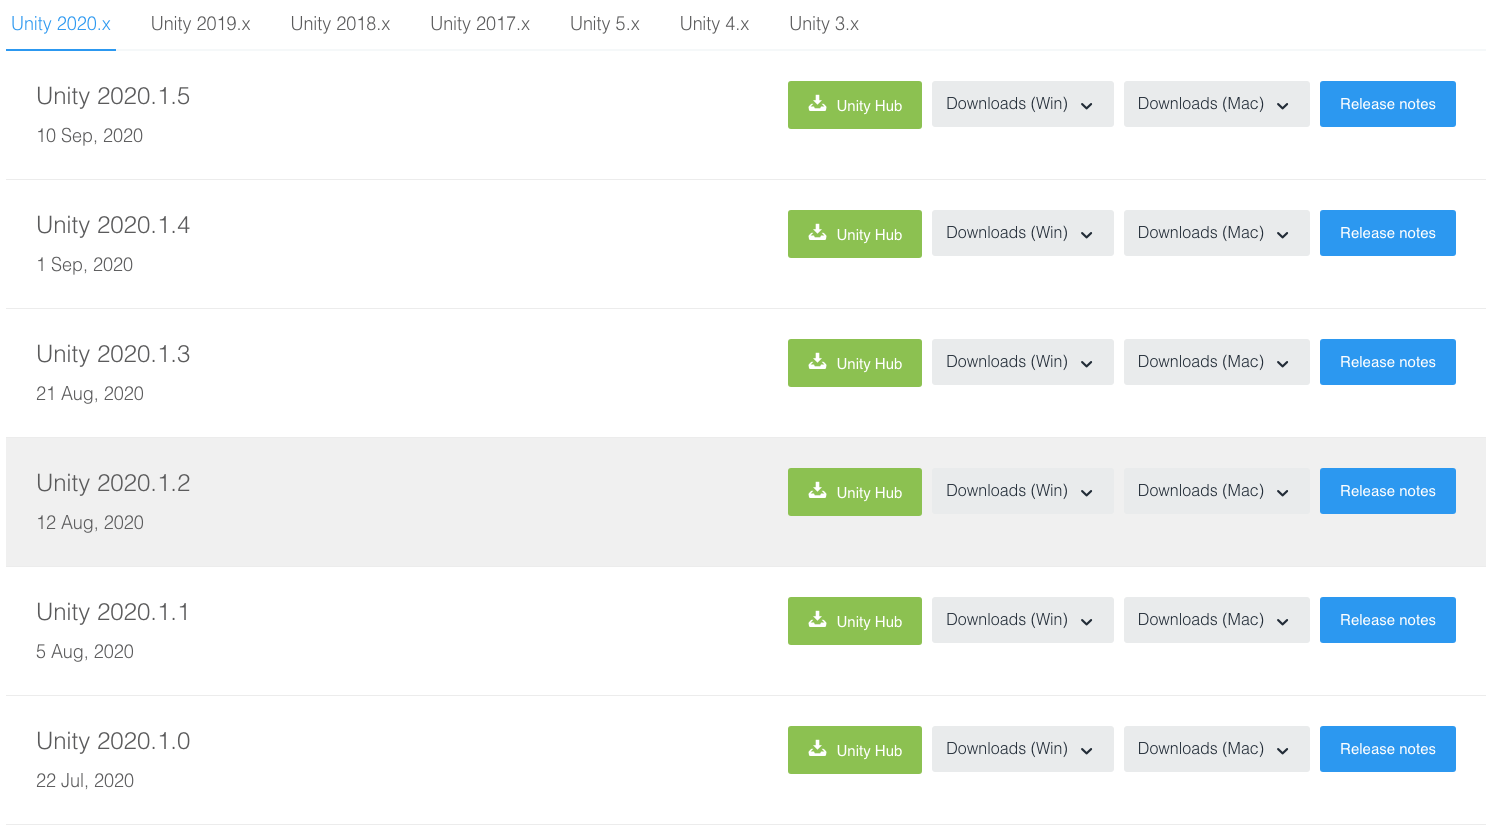
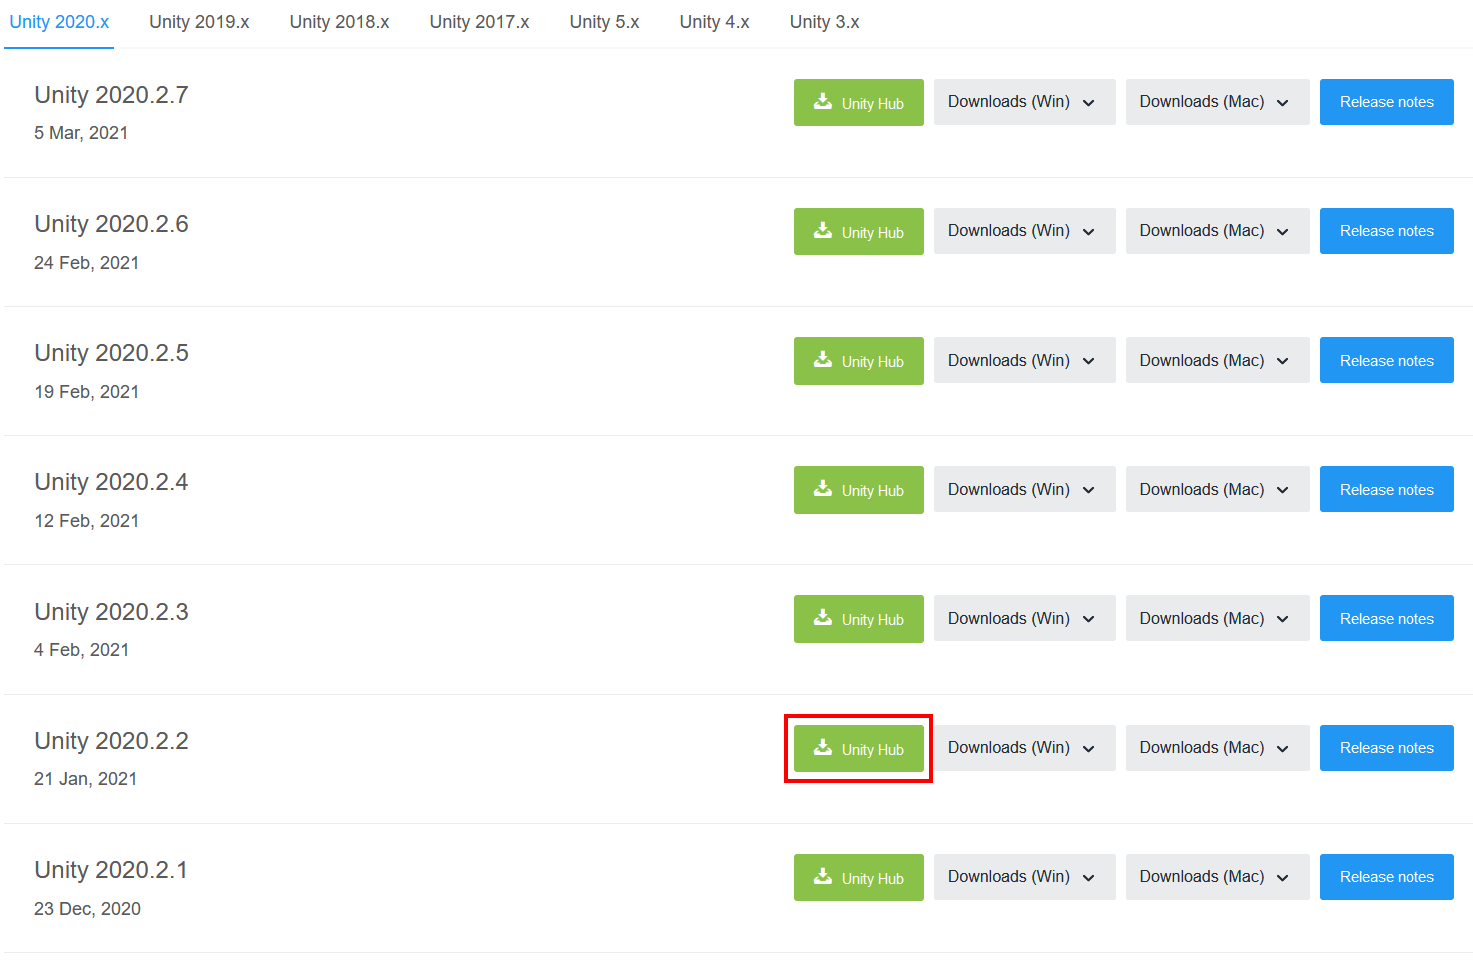
Update README.md

diff --git a/README.md b/README.md
@@ -1,24 +1,30 @@
 # Structural Geology Query Toolkit
 
-This guide assumes you are a complete newcomer to using the Untiy game engine.
+## Overview
+
+[TODO insert description of this project]
+
+This guide assumes you are a newcomer to the Unity game engine. 
 
 
 
 ## Installing Unity
 
-### Install Unity Hub
+### Download Unity Hub
 
-Unity Hub is a tool where you can manage all your Unity projects and Unity editors.
+Unity Hub is an application where you can manage your Unity projects and Unity editors.
 
 https://store.unity.com/download?ref=personal
+
+You will also need to create an account and obtain a free personal license.
 
 
 
 ### Adding a new Unity version
 
-After installing install Unity Hub, you will need to download an actual Unity editor to go with it. This project was developed using Unity **2020.1.2**, so we recommend using the same version. Other versions may work as well.
+After installing install Unity Hub, you will need to download an actual Unity editor to go with it. This project was last updated using Unity **2020.2.2**, and we strongly recommend using the same version. 
 
-Go to [Unity Archive](https://unity3d.com/get-unity/download/archive) and select the Unity Hub option for 2020.1.2.
+Go to the [Unity Archive Site](https://unity3d.com/get-unity/download/archive) and select the "Unity Hub" option.
 
 ![Download Unity](Documentation/DownloadUnity.png)
 
@@ -28,43 +34,41 @@ In Unity Hub, you will see this popup. Check the "WebGL Build Support" to be abl
 
 ![Add WebGL](Documentation/AddWebGL.png)
 
-## Creating a new project through Unity Hub
-
-![New Project 1](Documentation/NewProject1.gif)
 
 
+## Downloading the Structural Query Toolkit Project
 
-Then, create a new project with the Universal Render Pipeline.
+If you are unfamiliar with Git, we recommend you download and extract the ZIP file of the project, shown below:
 
-![New Project 2](Documentation/NewProject2.gif)
+![DownloadingProjecting](Documentation/DownloadingProjecting.png)
 
+## Importing the project
 
+Once you have extracted the zip file, open Unity Hub to open the project. 
 
-## Downloading the Structural Query Toolkit package
-
-Head to our releases section and download the latest package. This package will be imported into your new  Unity project.
-
-This is the only file you need to download.
+![Adding Project](Documentation/Adding Project.png)
 
 
 
-## Importing the Structural Query Toolkit Package
+Simply click the on the project folder and click "open."
 
-After downloding the package, import it into your project.
-
-![Import Package](Documentation/ImportPackage.gif)
+![Adding Project](Documentation/Adding Project.gif)
 
 
+
+**Note:** importing this project may take several minutes. Once it has finished and you see the Unity editor, proceed below.
 
 ## Setting up the scene
 
-### Open the scene
+### Open the field scene
 
 After importing the package, open the scene called "Field Scene" inside "Assets/Scenes"
 
 ![Open Field Scene](Documentation/OpenFieldScene.gif)
 
-This scene is where you will insert your own model to be used ingame.
+This scene is where you will insert your own model(s) to be used in-game.
+
+By default, we've included a sample scene that you play around with! Feel free to either keep or swap out parts of this sample with your own objects. Instructions are detailed below. 
 
 [TODO picture of scene]
 
@@ -72,45 +76,97 @@ This scene is where you will insert your own model to be used ingame.
 
 ### Setting the aspect ratio for your editor play mode
 
-The UI may look weird when the game screen is not in 16:9 or 16:10. Note that this does not affect the final build of the project, where its default non-fullscreen resolution is defined elsewhere. This simply gives you a better preview of the ingame look.
+The in-game user interface may look weird when the game screen is not in 16:9 or 16:10 aspect ratio. 
+
+**Note:** this does not affect the final build of the project, where its default resolution is defined elsewhere. This simply gives you a better preview of the in-game look in the Unity editor. In particular, the in-game UI will match what the final build will look like.
 
 ![Change aspect ratio](Documentation/ChangeAspectRatio.gif)
 
 
 
-### Adding the "Stereonet" layer
+### Entering play mode
 
-Since Unity packages cannot import layers, you must manually assign the layer "Stereonet" to "Stereonets Controller" gameobject and its children. Doing this will allow the 2D stereoent in the project to work.
+To enter play mode, press the play button.
 
-First, Select any gameobject under the "hierarchy" tab and open the layers window.
+**Important:** Do not make changes to your scene during play mode! All changes you make to scene will revert back when you exit play mode. Always make sure to exit play mode.
 
-![Open Layer Window](Documentation/OpenLayerWindow.gif)
+![Play_Icons](Documentation/Play_Icons.png)
 
-Then, add a new layer called "Stereonet"
+### 
 
-![Stereonet layer](Documentation/StereonetLayer.png)
-
-Lastly, select the "Stereonets Controller" gameobject in the hierarchy tab, and in the inspector, assign the Stereonet layer.
-
-![Select Stereonets Controller](Documentation/SelectStereonetsController.png)
-
-![Assign Layer](Documentation/AssignLayer.gif)
-
-Select "Yes, change children"
-
-![Yes change children](Documentation/YesChangeChildren.png)
-
-
-
-
-
-### Switching the example model with your model
+### Adding your model
 
 [TODO]
 
 
 
-### Moving the player gameobject to your desired position
+Be sure to 
+
+
+
+### Creating your model's material
+
+First, you'll need to import your models' textures to the project. Simply drag it in your project window.
+
+[TODO]
+
+In Unity, select your texture and adjust its import settings. For reference, here is our import setting for our Whaleback texture. The most important setting is **Max Size**, where you should set it to your image's resolution.
+
+![Texture_Import_Settings](Documentation/Texture_Import_Settings.png)
+
+
+
+With your texture, you will need to create a **material** file. 
+
+[TODO]
+
+
+
+### (Optional) Setting your model's altitude
+
+**Important:** this step is only relevant if you have visible GPS markers (i.e. specific spots where you know the elevation of) in your model.
+
+Do you want to see the elevation of your measurements? If so, you will place one or more altitude marker objects in your scene.
+
+**Note:** The Unity game engine uses the metric system, where one unit is one meter, so scale and translate your model accordingly.
+
+#### Example
+
+![GPS Marker](Documentation/GPS%20Marker.png)
+
+In our Whaleback project, our GPS marker is marked in the model's texture. We know the exact elevation at that point. 
+
+Go to Assets->_Toolkit Prefabs and drag the **Altitude Marker** object into your scene. After, manually place your object into your 
+
+![Altitude_Marker](Documentation/Altitude_Marker.png)
+
+We placed an **Altitude Marker** object into that spot, and specified its real-world elevation in the inspector.
+
+![Altitude_Marker_Inspector](Documentation/Altitude_Marker_Inspector.png)
+
+**Note:** The **"Anchor Down"** button allows your altitude marker to fall down to the nearest object (that has a collider) in your scene. It is for convenience and is optional to use.
+
+By default, showing elevation data is turned off. To enable it, find the "**Settings**" object in the scene hierarchy, and enable "Show Elevation Data"
+
+![Enable Show Elevation](Documentation/EnableShowElevation.png)
+
+
+
+You should now see the elevation of your latest pole measurements.
+
+![Elevation data shown](Documentation/ElevationDataShown.png)
+
+
+
+### Moving the player object to the game's starting position
+
+*Where do you want your player to land when they enter your scene?*
+
+Once your model's position is finalized, you can move the player object to where you would like your users to spawn.
+
+Note that the player's **blue axis** is their forward direction. 
+
+We recommend that you go into play mode to check that your new player location is suitable and doesn't have any issues (such as the player clipping through the ground and falling forever).
 
 [TODO]
 
@@ -118,77 +174,49 @@ Select "Yes, change children"
 
 To mitigate the effects of noise during your measurements, you can enable the sampling of multiple points around your clicks.
 
-By default, random sampling is disabled. To enable it or to change its settings, go to the "Settings" gameobject in your hierarchy view.
+By default, random sampling is disabled. To enable it or to change its settings, go to the "Settings" object in your hierarchy view.
 
 ![Select Settings Gameobject](Documentation/SelectSettingsGameobject.png)
 
 ![Enable Sampling Radius](Documentation/EnableSamplingRadius.png)
 
-So see how random sampling works, turn on the "Gizmos" toggle in the top-right corner of your **game** tab (not scene view!)
-
-![Turn on Gizmos](Documentation/TurnOnGizmos.png)
-
-
-
-Next, go into play mode what start taking measurements! You will see white lines representing the extra measurements that are taking place and are used when plotting the stereonet.
+Next, go into play mode what start taking pole measurements! You will see white lines representing the extra measurements that are taking place and are used when plotting to the stereonet.
 
 With the default settings, you should see something similar to this:
 
 ![Gizmos preview](Documentation/GizmosPreview.png)
 
-**Note:** the visuals you see when "Gizmos" is enabled is only seen inside the editor, and not in the final build.
+The white lines are the extra random samples taken in your measurement. 
+
+**Note:** the visuals you see when "Gizmos" is enabled is only seen inside the editor, and not in the final build. Gizmos should already be enabled by default.
+
+**Note:** The "Gizmos" toggle in the top-right corner of your **game** tab (not the scene tab!). You should leave it enabled. ![Turn on Gizmos](Documentation/TurnOnGizmos.png)
 
 
 
-### (Optional) Setting your model's altitude
-
-Do you want to see the elevation of your measurements? If so, you will need to adjust the model's position in the y-axis.
-
-**Important:** this step is only relevant if you have visible GPS markers in your model that allows you to derive its elevation data.
-
-**Note:** The Unity game engine uses the metric system, so one unit is one meter. Scale and translate your model accordingly.
-
-#### Short demonstration
-
-[TODO]
+### (Optional) Setting up your map view
 
 
-
-
-
-By default, showing elevation data is turned off. To enable it, find the "Settings" GameObject in the scene hierarchy, and enable "Show Elevation Data"
-
-
-
-![Enable Show Elevation](Documentation/EnableShowElevation.png)
-
-
-
-You should now see the elevation of your latest measurements
-
-![Elevation data shown](Documentation/ElevationDataShown.png)
 
 
 
 ## Setting up the main menu
 
-This package includes a simple main menu screen.
-
-We will show how to change the title its subheading.
+This package also includes a simple main menu screen. We will show how to change the title ands its subheading.
 
 Open the scene called "Main menu" inside "Assets/Scenes"
 
-In the hierarchy tab, open the "Manu Canvas" gameobject to find the "Title" and "Subheader" gameobjects.
+In the hierarchy tab, open the "Manu Canvas" object to find the "Title" and "Sub header" text objects.
 
 ![Selecting Menu Canvas](Documentation/SelectingMenuCanvas.png)
 
-Once you select either the title of subheader, you will see a TextMeshPro component. Simply change the placeholder text.
+Once you select either the title of sub header, you will see a "TextMeshPro" component. Simply change the placeholder text.
 
 ![Finding TextMeshPro](Documentation/FindingTextMeshPro.png)
 
 
 
-This scene also includes a simple acknowledgements page, named "Acknowledgements Canvas" in the hierarchy tab. We recommend temperarily disabling the Menu Canvas to better edit this page.
+This scene also includes a simple acknowledgements page, named "Acknowledgements Canvas" in the hierarchy tab. We recommend temporarily disabling the Menu Canvas to better edit this page.
 
 ![Finding Acknowledgements Canvas](Documentation/FindingAcknowledgementsCanvas.png)
 
@@ -202,32 +230,49 @@ First, open the "Build Settings..." window
 
 ![Open Build Settings](Documentation/OpenBuildSettings.gif)
 
-If you see any scenes that are blank or are not either your main menu scene or the field scene, then delete it (click on it and delete). By default, you will most likely see a "Sample Scene," which you should delete (or if you deleted the sample scene in your project, then you will see a blank entry).
-
-![Remove Build](Documentation/RemoveBuild.gif)
-
-Now, **open your main menu scene** (Assets/Scenes/Main Menu), and reopen the "Build Settings..." window, then select "Add open scenes."
-
-![Build Settings Main Menu](Documentation/BuildSettingsMainMenu.gif)
-
-Next, open your field scene and repeat.
-
-![Build Settings Field Scene](Documentation/BuildSettingsFieldScene.gif)
-
-Lastly, under "Platforms" in the "Build Settings..." window, select WebGL and select "Switch Platform"
-
-![Switch Platform](Documentation/SwitchPlatform.gif)
-
-This is how your final build settings should look. Build order is important for the main menu to work!
+This is how your build settings should look. Build order is important for the main menu to work!
 
 ![Final build settings](Documentation/FinalBuildSettings.png)
 
 
 
-Now you can build your project. Note that building your project can be a slow process. 
+Select "Build" to build your project. When asked for a directory, we recommend storing it in a separate and empty folder outside of the project. You will later need to compress this folder to share it.
+
+[TODO demonstration]
 
 
 
-## Publishing online
+Note that building your project can be a slow process, taking several minutes. 
 
-[TODO]
+## Running your build locally
+
+Roughly speaking, due to browser security concerns, WebGL games must be executed through a web server. Running your project locally will result in the game not loading!  Creating your own server or changing your browser's settings can be tedious for yourself and others that you plan to share it with.
+
+With that, the best way to share WebGL games is to upload it online and share it privately or publicly. 
+
+## Sharing your build
+
+If you do not have your own domain/server to host your build, we recommend using the free hosting services [itch.io](https://itch.io) or [simmer.io](https://simmer.io). Both services have similar policies, so we will just cover itch.io below.
+
+Here is the itch.io [FAQ for uploaders](https://itch.io/docs/creators/faq#what-does-itchio-give-me), but its most relevant points are:
+
+- You keep ownership of your project. You can remove it at any time.
+- You can restrict access to who can access your build, such as setting your build to be restricted and handing individual keys to people to access it. More on how access works [here](https://itch.io/docs/creators/access-control).
+
+Below is a screenshot of the access options you can pick between when uploading to itch.io.
+
+![itch_io_visibility](/Documentation/itch_io_visibility.png)
+
+To upload it, you will need to compress your build folder. 
+
+![CompressBuild](/Documentation/CompressBuild.png)
+
+Here are the publishing settings we used in itch.io for our Whaleback project:
+
+![CompressBuild](/Documentation/itch_io_publishing_settings.png)
+
+
+
+## Feedback
+
+For any questions or feedback, please email [TODO]
